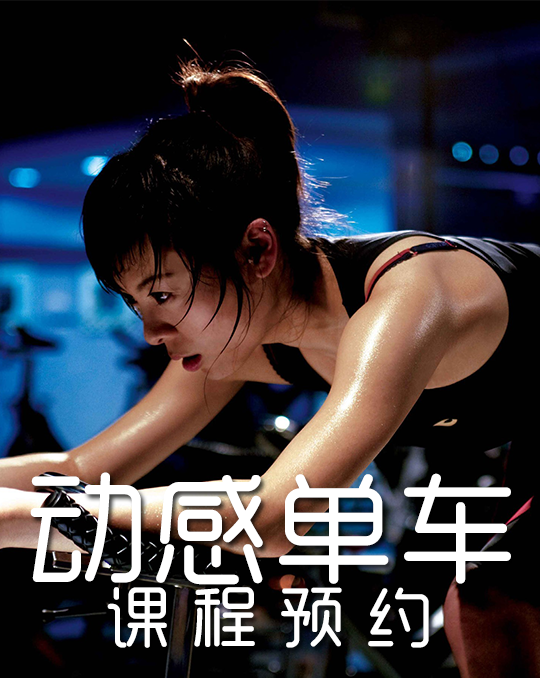
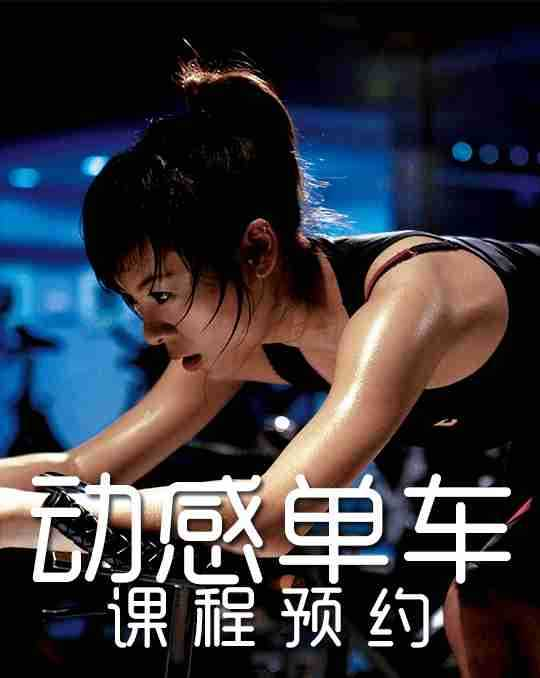
项目列表图片大小

diff --git a/WebContent/wechat/stadiumdetail.html b/WebContent/wechat/stadiumdetail.html
@@ -24,19 +24,19 @@
 					<div class="scroller">  
 						<ul class="listitem">
 					        <li>
-					        	<img data-source="images/qijian/1.jpg" class="img" style="width:100%;"/>
+					        	<img data-source="images/qijian/1.png" class="img" style="width:100%;"/>
 					        </li>
 					        <li>
-					        	<img data-source="images/qijian/2.jpg" class="img" style="width:100%;"/>
+					        	<img data-source="images/qijian/2.png" class="img" style="width:100%;"/>
 					        </li>
 					        <li>
-					        	<img data-source="images/qijian/3.jpg" class="img" style="width:100%;"/>
+					        	<img data-source="images/qijian/3.png" class="img" style="width:100%;"/>
 					        </li>
 					        <li>
-					        	<img data-source="images/qijian/4.jpg" class="img" style="width:100%;"/>
+					        	<img data-source="images/qijian/4.png" class="img" style="width:100%;"/>
 					        </li>
 					        <li>
-					        	<img data-source="images/qijian/5.jpg" class="img" style="width:100%;"/>
+					        	<img data-source="images/qijian/5.png" class="img" style="width:100%;"/>
 					        </li>
 					        <li id="stadiumdetail">
 					        	<h1>Gogo新天地（万科店）</h1>

diff --git a/WebContent/wechat/stadiumlist.html b/WebContent/wechat/stadiumlist.html
@@ -29,7 +29,7 @@
 							<a onclick="nextpage('<%= root[i].stadiumid %>','<%= root[i].stadiumcode %>','<%= root[i].stadiumname %>','<%= root[i].stadiumaddress %>'
 							,'<%= root[i].stadiumstatue %>','<%= root[i].stadiumx %>','<%= root[i].stadiumy %>');">
 								<i class="ricon iconfont iconline-arrow-right"></i>
-								<img placeholder="assets/app/img/list/defaultimg.png" data-source="images/wanke1.jpg" class="img" style="width:100px;"/>
+								<img placeholder="assets/app/img/list/defaultimg.png" data-source="images/7.png" class="img" style="width:100px;"/>
 								<div class="text">
 						              	<h1><%= root[i].stadiumname %></h1> 
 						                <small>电话：<%= root[i].stadiumstatue %></small>

diff --git a/WebContent/wechat/coachlist.html b/WebContent/wechat/coachlist.html
@@ -29,7 +29,7 @@
 							<a onclick="nextpage('<%= root[i].coachid %>','<%= root[i].coachcode %>','<%= root[i].coachname %>','<%= root[i].coachphone %>'
 							,'<%= root[i].coachaddress %>','<%= root[i].coachsex %>','<%= root[i].coachage %>','<%= root[i].coachimage %>','<%= root[i].coachdetail %>');">
 								<i class="ricon iconfont iconline-arrow-right"></i>
-								<img placeholder="assets/app/img/list/defaultimg.png" data-source="images/1.png" class="img" style="width:70px;"/>
+								<img placeholder="assets/app/img/list/defaultimg.png" data-source="images/coach/coach1.png" class="img" style="width:70px;"/>
 								<div class="text">
 										<h1><%= root[i].coachname %></h1>
 						            	<small>

diff --git a/WebContent/wechat/coach.html b/WebContent/wechat/coach.html
@@ -23,7 +23,7 @@
 				</header>
 				<article data-role="article" id="main_article" data-scroll="pull" class="active" style="top:44px;bottom:56px;">
 					<div class="scroller" style="bottom:56px;"> 
-						<img class="full-width" data-toggle="article" src="images/coach/coach1.jpg">
+						<img class="full-width" data-toggle="article" src="images/coach/coach1.png">
 						<h1 id="coachname" align="center"  style="margin-top: 10px;margin-bottom: 10px;">季天成</h1>
 						<ul class="listitem">
 					        <li class="sliver"></li>

diff --git a/WebContent/wechat/stadium.html b/WebContent/wechat/stadium.html
@@ -23,7 +23,7 @@
 				</header>
 				<article data-role="article" id="main_article" data-scroll="verticle" class="active" style="top:44px;bottom:0px;">
 					<div class="scroller"> 
-						<img class="full-width" data-toggle="article" src="images/wanke1.jpg">
+						<img class="full-width" data-toggle="article" src="images/7.png">
 						<h1 id="stadiumname" align="center"  style="margin-top: 10px;margin-bottom: 10px;">新天地健身会所旗舰馆(青年路)</h1>
 						<ul class="listitem">
 					        <li class="sliver"></li>

diff --git a/WebContent/wechat/place.html b/WebContent/wechat/place.html
@@ -22,7 +22,7 @@
 				</header>
 				<article data-role="article" id="main_article" data-scroll="pull" class="active">
 				<div class="scroller">  
-					<img data-source="images/qijian/3.jpg" class="img" style="width:100%;"/> 
+					<img data-source="images/qijian/3.png" class="img" style="width:100%;"/> 
 					<ul class="listitem">
 						<li class="sliver">请选择场地：
 						<select name="select" id="placetime">

diff --git a/WebContent/wechat/project.html b/WebContent/wechat/project.html
@@ -47,7 +47,7 @@
 		<script>
 			function nextpage(project){
 				window.localStorage.setItem("project",project);
-				window.location.href = "stadiumlist.html";
+				setTimeout(function(){window.location.href = "stadiumlist.html";}, 300);
 			}
 		</script>
 	</body>

diff --git a/src/com/system/tools/util/CommonUtil.java b/src/com/system/tools/util/CommonUtil.java
@@ -7,9 +7,15 @@ import org.apache.commons.lang.StringUtils;
 
 
 public class CommonUtil {
-
+	
 	public static Boolean isNotEmpty(String str) {
 		if(null == str || str.length() <= 0)
+			return false;
+		return true;
+	}
+	
+	public static Boolean isNotNull(String str) {
+		if(null == str || str.length() <= 0 || "null".equals(str.toLowerCase()))
 			return false;
 		return true;
 	}
@@ -25,7 +31,12 @@ public class CommonUtil {
 			return true;
 		return false;
 	}
-	
+
+	public static Boolean isNull(String str) {
+		if(null == str || str.length() <= 0 || "null".equals(str.toLowerCase()))
+			return true;
+		return false;
+	}
 	public static Boolean isEmpty(Object obj) {
 		if(obj==null)
 			return true;
